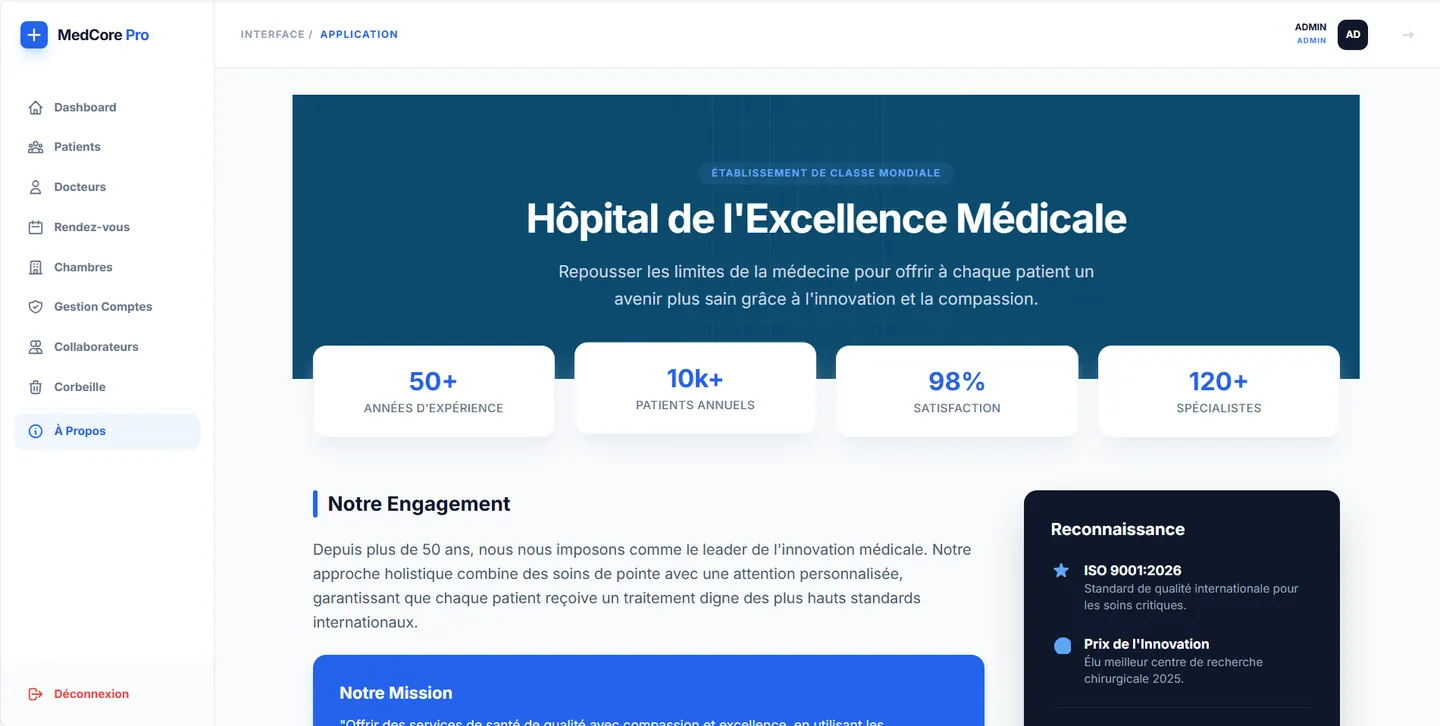
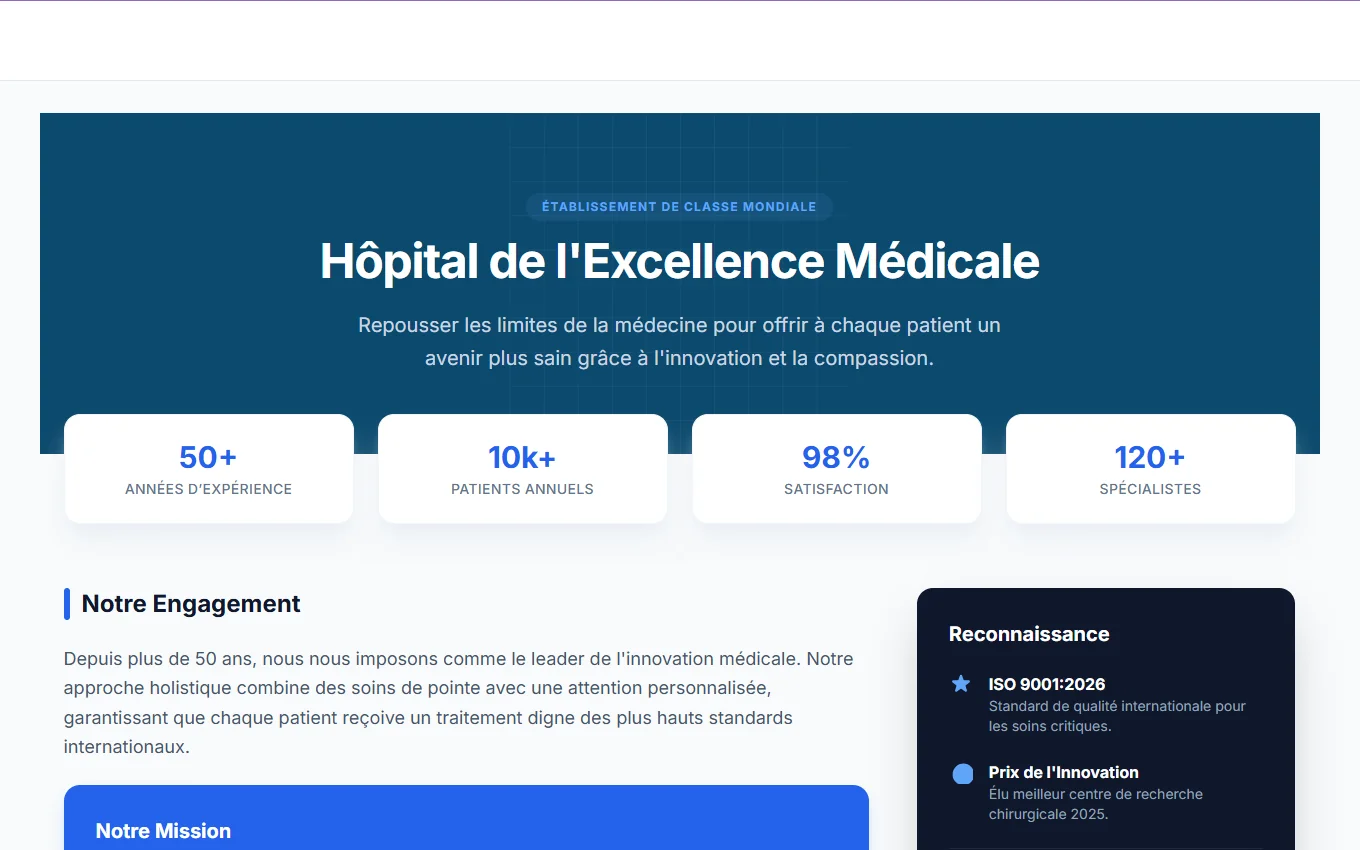
ajoute d'image au card du projet medcore pro

diff --git a/assets/js/data.js b/assets/js/data.js
@@ -1407,7 +1407,15 @@ window.PORTFOLIO = {
     }
    ],
    "links": {},
-   "images": [],
+   "images": [
+    {
+     "src": "assets/img/projects/meded/cover.webp",
+     "alt": {
+      "fr": "Tableau de bord étudiant MedEd : taux de réussite, réponses, grade, favoris et progression vers le grade suivant",
+      "en": "MedEd student dashboard: success rate, answers, grade, favourites and progress to the next grade"
+     }
+    }
+   ],
    "glyph": "Med+"
   },
   {
@@ -2177,8 +2185,8 @@ window.PORTFOLIO = {
     {
      "src": "assets/img/projects/hospital/cover.webp",
      "alt": {
-      "fr": "Interface MedCore Pro",
-      "en": "MedCore Pro interface"
+      "fr": "Page « À propos » de MedCore Pro : présentation de l'hôpital, chiffres clés, engagement et reconnaissances",
+      "en": "MedCore Pro About page: hospital overview, key figures, commitment and awards"
      }
     }
    ],
